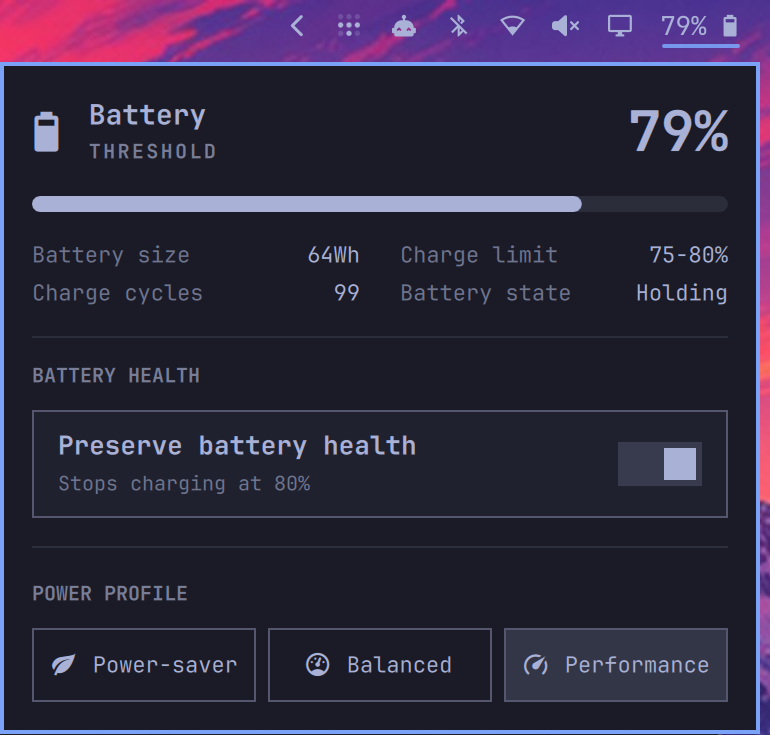
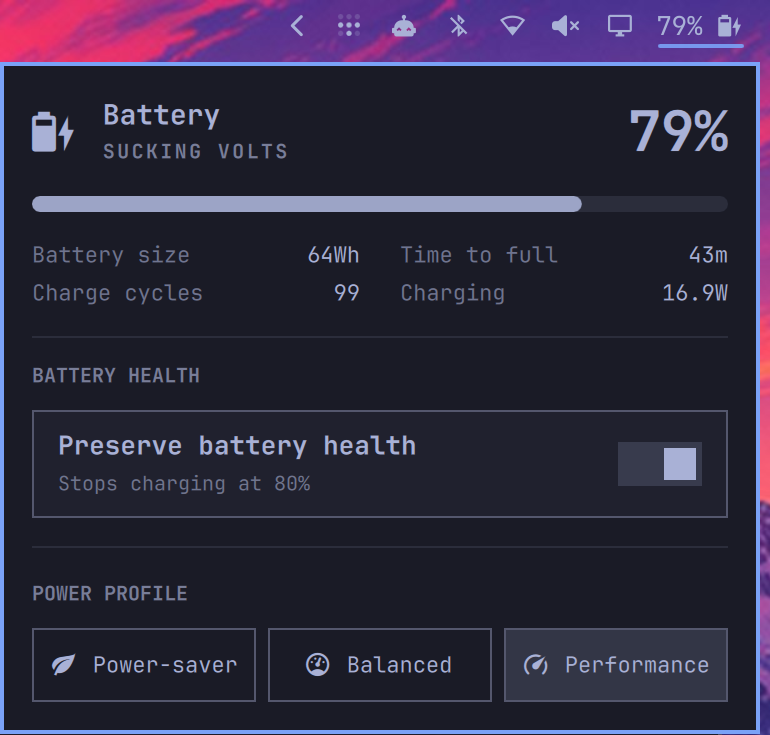
Resolve bundled helper from plugin directory

diff --git a/Panel.qml b/Panel.qml
@@ -24,11 +24,7 @@ Panel {
   property string limitError: ""
   readonly property bool limitVisible: limitInfo.state !== "unsupported"
   readonly property string limitDescription: Model.limitDescription(limitInfo.state, limitInfo.policy)
-  readonly property string limitCommand: {
-    if (!root.bar || !root.moduleName) return ""
-    var metadata = root.bar.barWidgetRegistry.metadataFor(root.moduleName)
-    return metadata ? metadata.sourceDir + "/bin/omarchy-battery-limit" : ""
-  }
+  readonly property string limitCommand: decodeURIComponent(String(Qt.resolvedUrl("bin/omarchy-battery-limit")).replace(/^file:\/\//, ""))
   readonly property bool showPercentage: setting("showPercentage", false) === true
   // With the percentage shown the button paints a text block wider than an
   // icon, so the open-panel mark takes the painted width instead of the
